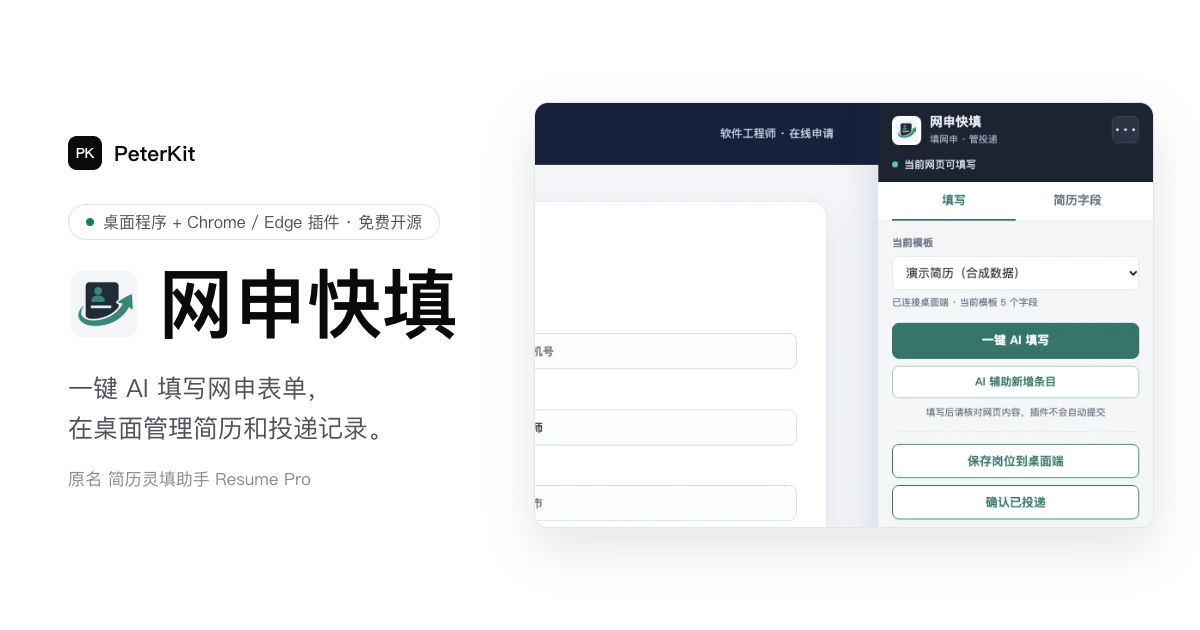
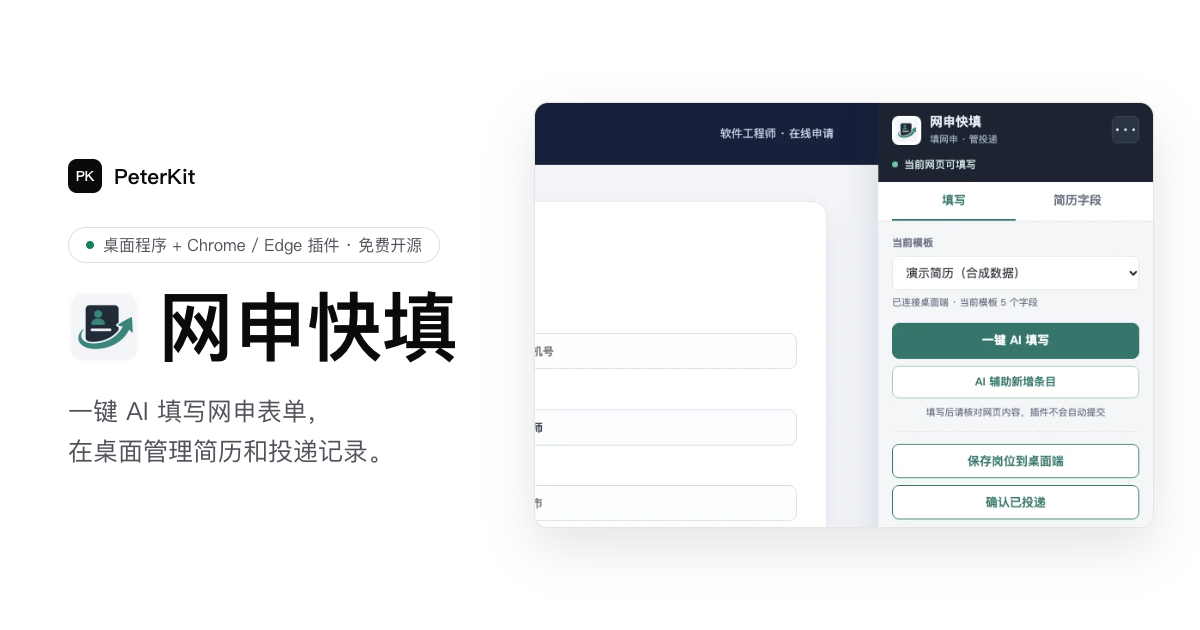
chore: 去掉「原名 简历灵填助手 Resume Pro」标注

Changed region(s): [[0.0308, 0.2111, 0.4008, 0.7841]]

diff --git a/src/data/tools.ts b/src/data/tools.ts
@@ -1,8 +1,6 @@
 export type Tool = {
   slug: string;
   name: string;
-  /** 改名前的名字，保留给老用户辨认和搜索 */
-  formerName?: string;
   /** 一句话，动词开头，说清楚它干什么 */
   tagline: string;
   platform: string;
@@ -32,7 +30,6 @@ export const tools: Tool[] = [
   {
     slug: 'wangshen-kuaitian',
     name: '网申快填',
-    formerName: '简历灵填助手 Resume Pro',
     tagline: '在浏览器侧边栏一键 AI 填写网申表单，并在桌面程序里管理简历和投递记录。',
     platform: '桌面程序 + Chrome / Edge 插件',
     status: '现已开放',

diff --git a/src/styles/global.css b/src/styles/global.css
@@ -243,7 +243,6 @@ a { color: inherit; }
 .tool-head h1 { margin: 0 0 8px; font-size: 30px; font-weight: 600; letter-spacing: -0.02em; }
 .tool-head__title { display: flex; align-items: center; gap: 12px; }
 .tool-icon--lg { width: 40px; height: 40px; }
-.tool-head__aka { margin: 0 0 10px; font-size: 13px; color: var(--ink-3); }
 .tool-head__desc { margin: 0; color: var(--ink-2); font-size: 15px; max-width: 56ch; }
 .tool-meta { display: flex; flex-wrap: wrap; gap: 6px 28px; margin: 20px 0 0; font-size: 12.5px; }
 .tool-meta div { display: flex; gap: 8px; }
